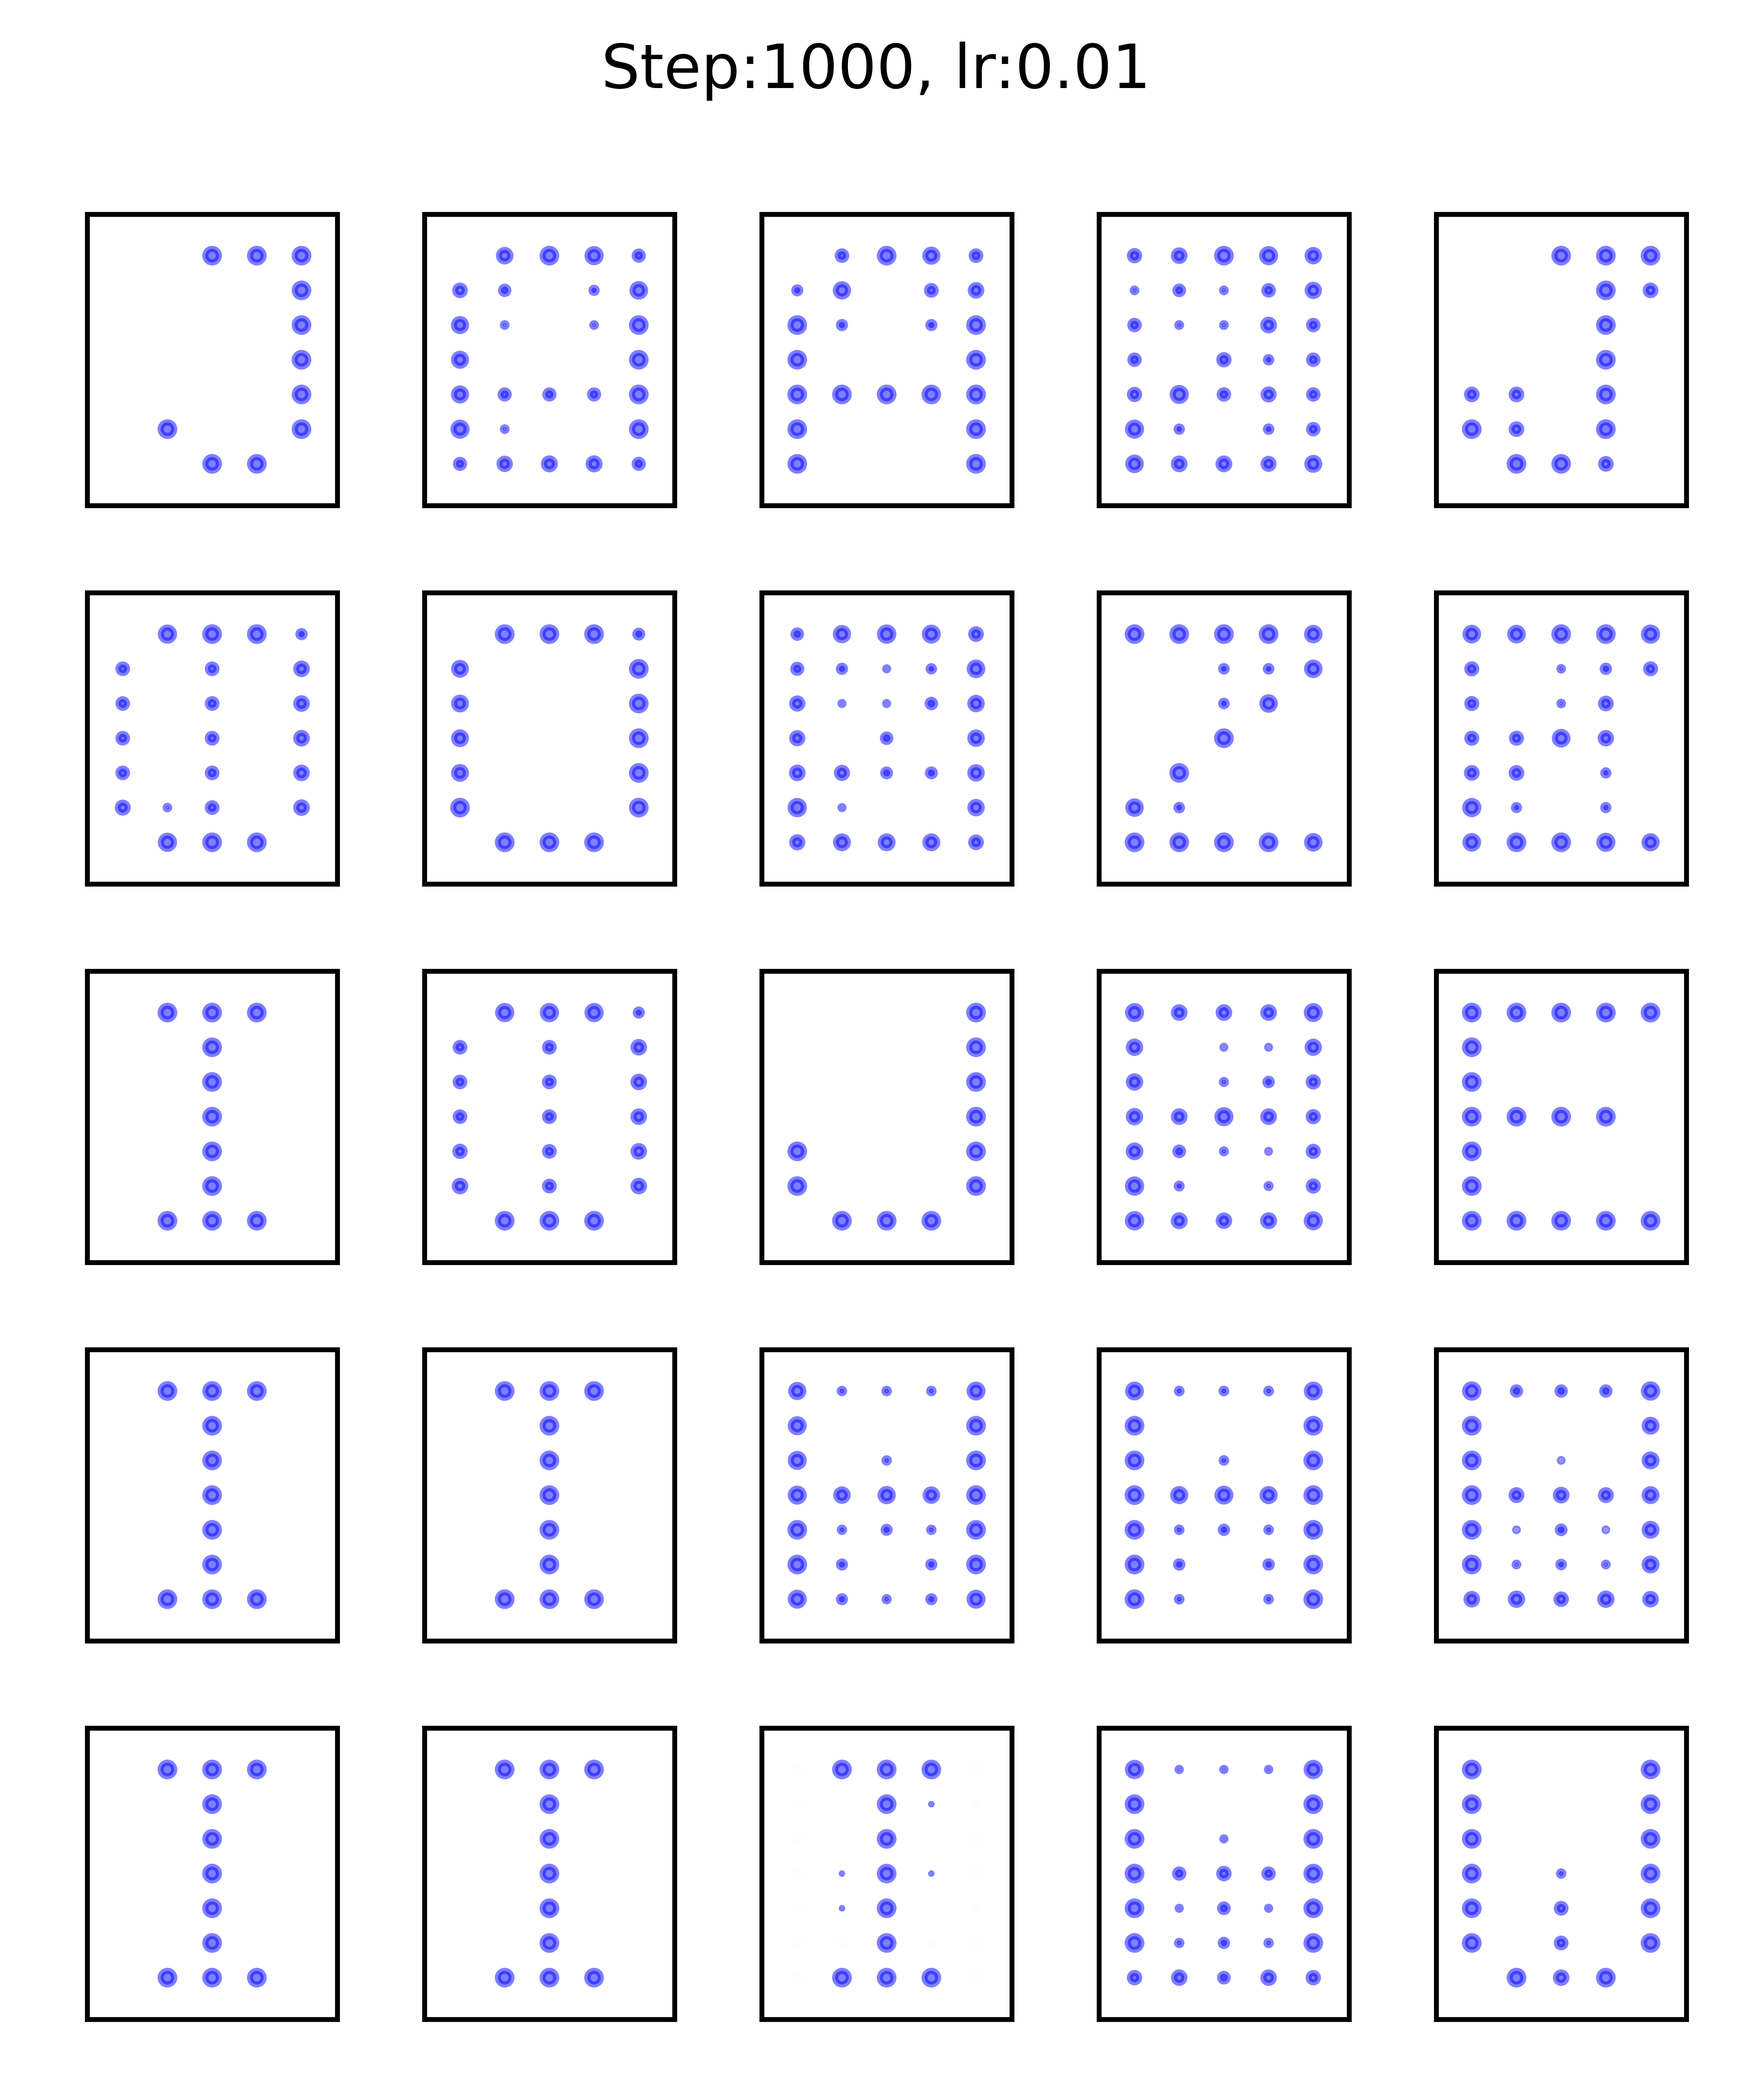
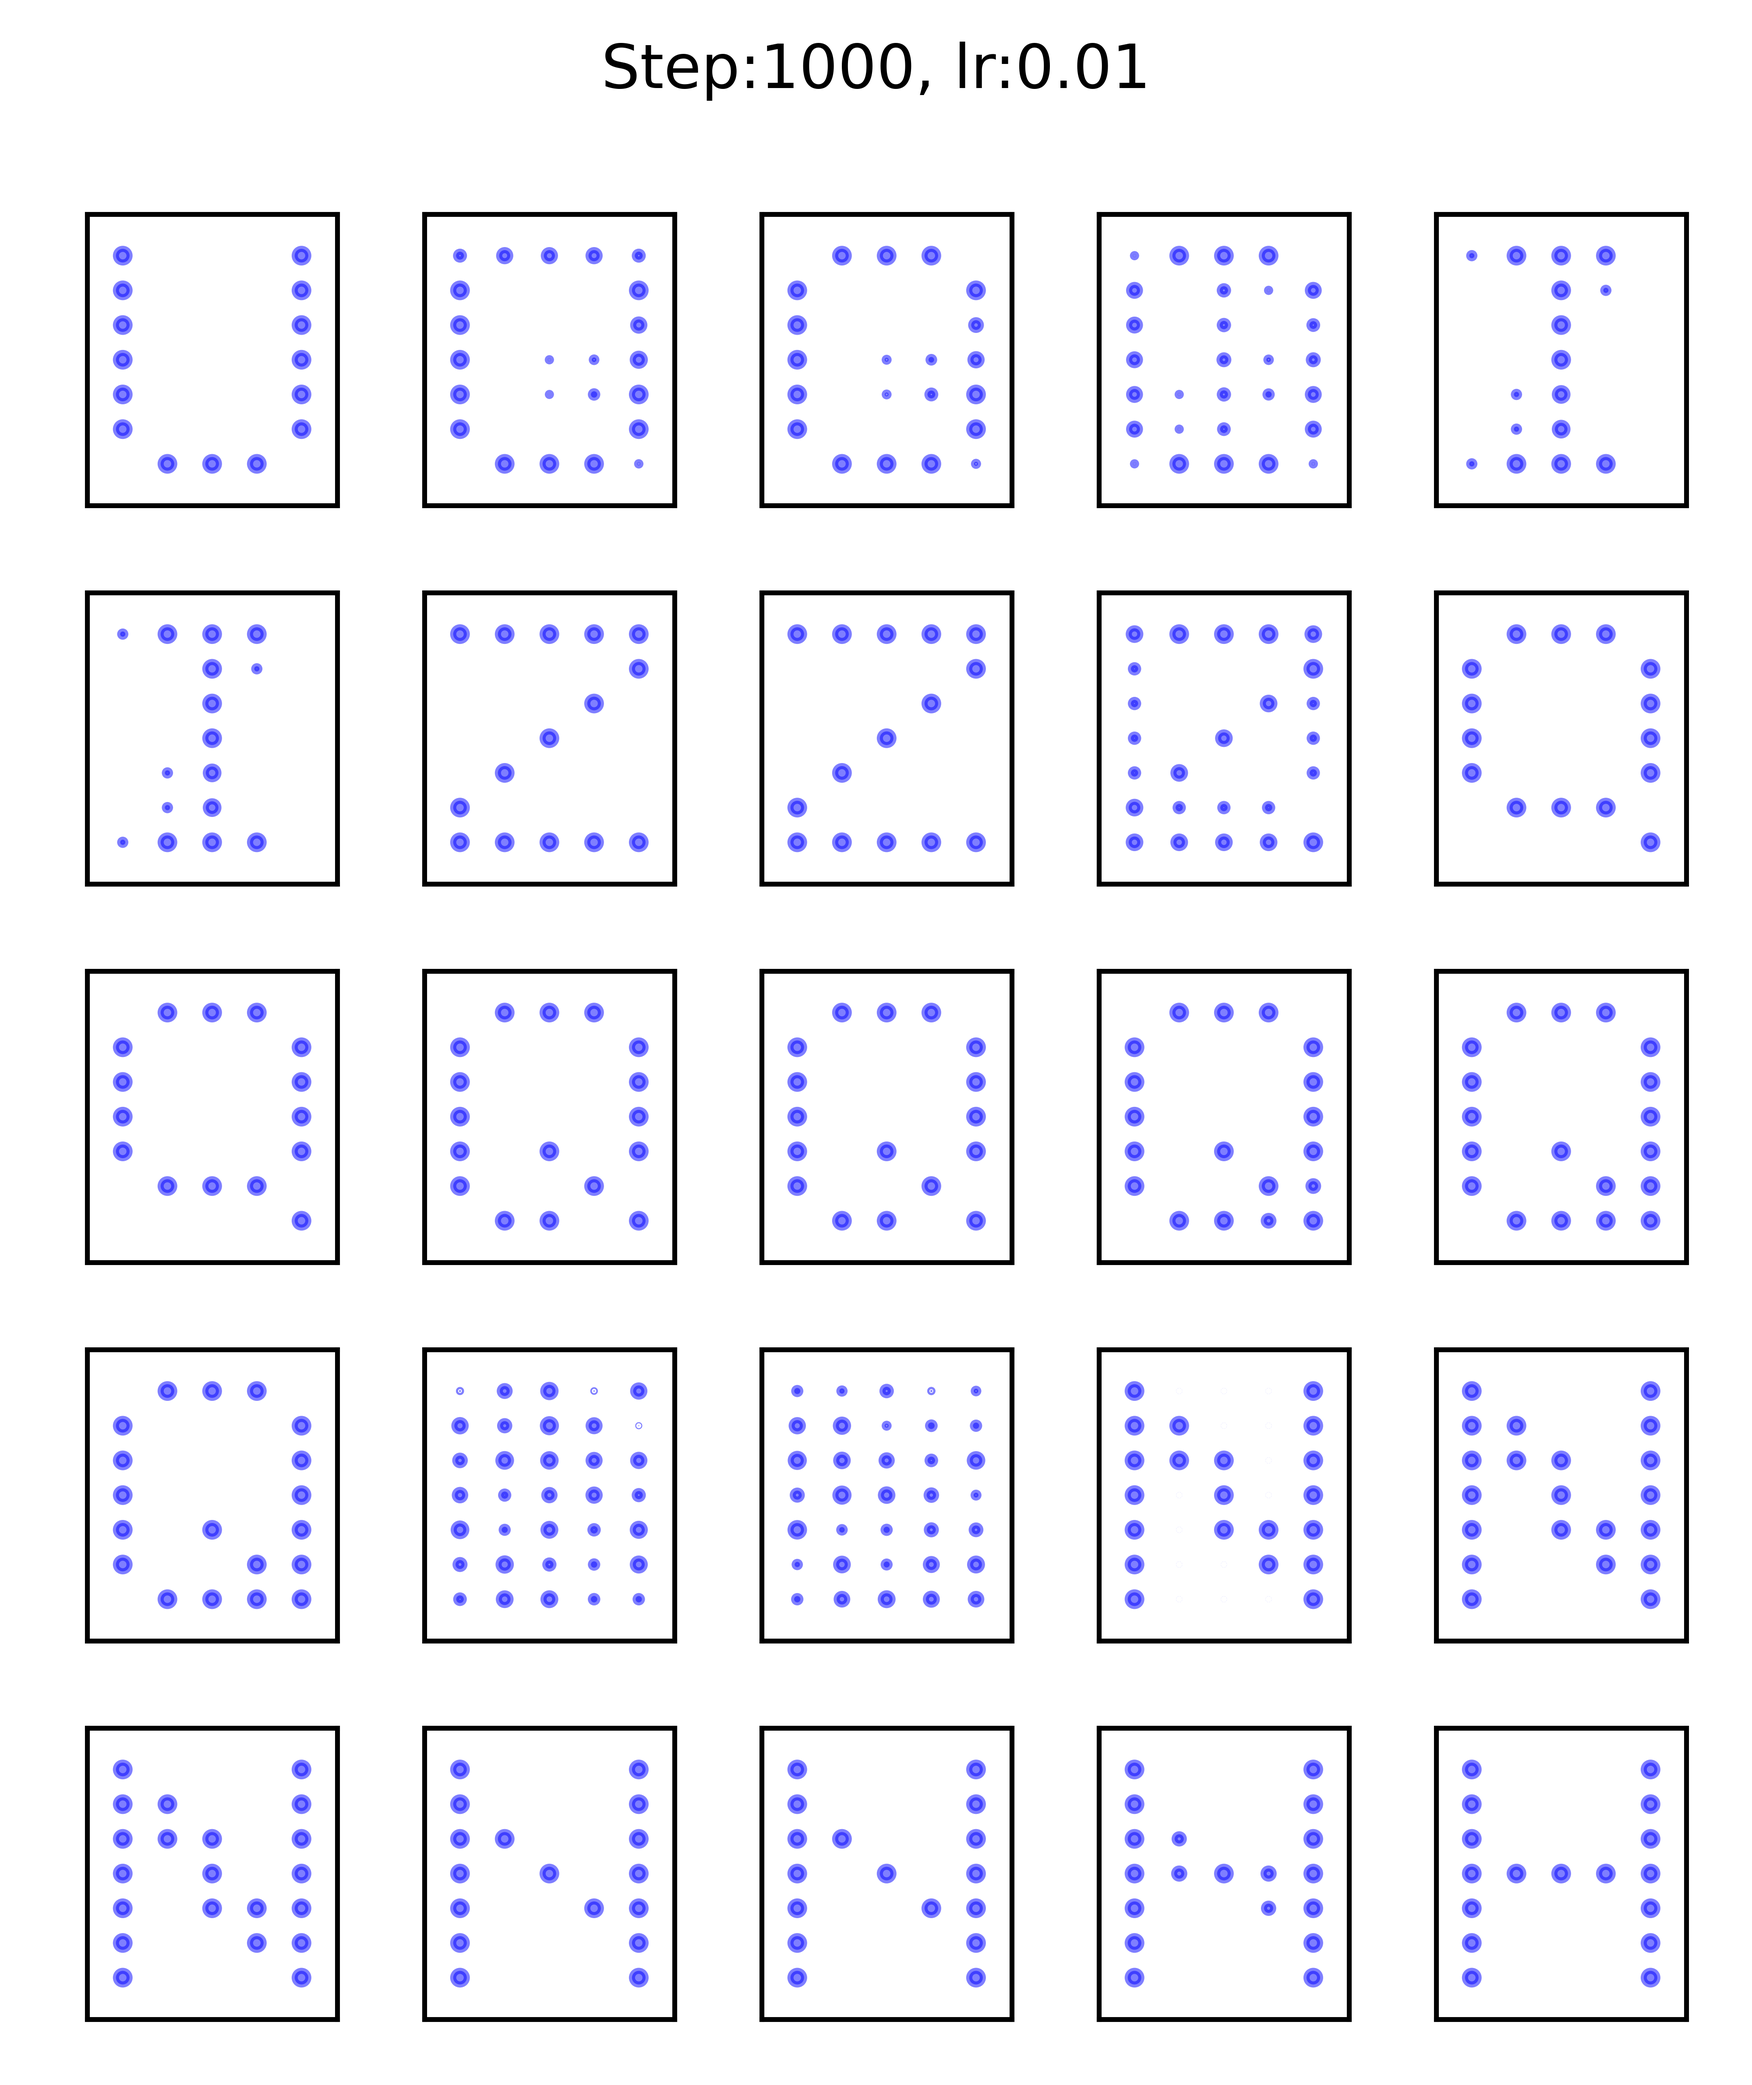
task3

diff --git a/ann-hw3/3-3.py b/ann-hw3/3-3.py
@@ -8,24 +8,6 @@ from numpy import nan
 
 
 # ======================================================
-# 数据生成：num个三角区域内的样本点
-def data_generateor(num=100):
-    X = np.random.random(5000)
-    Y = np.random.random(5000)
-    point_group = []
-
-    for x, y in zip(X, Y):
-        if y <= (3**0.5)*x and y <= 3**0.5-(3**0.5)*x and y >= 0:
-            point_group.append([x, y])
-
-    point_group = np.array(point_group).astype('float32')
-    id_list = np.random.randint(0, len(point_group)-1, num)
-    sample_data = point_group[id_list]
-
-    return sample_data
-
-
-# ======================================================
 # 胜者为王：输出层神经元竞争得到内积最大的id
 def WTA(x, W):
     innerdot = np.array([(x-ww).dot(x-ww) for ww in W])
@@ -39,6 +21,10 @@ def fu_neighbor(center_id, length, r):
     for i in range(center_id-r, center_id+r+1):
         if i >= 0 and i <= length-1:
             nb_list.append(i)
+        elif i < 0:
+            nb_list.append(i+length)
+        else:
+            nb_list.append(i-length)
 
     return nb_list
 
@@ -48,11 +34,14 @@ def fu_neighbor(center_id, length, r):
 def compete1(X, W, lr, r):
     for xx in X:
         id = WTA(xx, W)
-        
+
         nb_list = fu_neighbor(id, W.shape[0], r)
 
         for iid in nb_list:
             W[iid] = W[iid] + lr*(xx-W[iid])
+
+        for id in range(W.shape[0]):
+            W[id] = W[id] + (np.random.random(2) - 0.5) * lr**2
 
     return W
 
@@ -60,71 +49,73 @@ def compete1(X, W, lr, r):
 # ======================================================
 # 出图
 def show_data(data, lineflag=0, title=''):
-
     if lineflag == 0:
-        plt.scatter(data[:, 0], data[:, 1], s=10, c='blue')
+        plt.scatter(data[:, 0], data[:, 1], s=10, c='blue', label='View Site')
     else:
-        plt.scatter(data[:, 0], data[:, 1], s=35, c='red')
-        plt.plot(data[:, 0], data[:, 1], 'y-', linewidth=1)
-
-    board_x = np.linspace(0, 1, 200)
-    board_y = [np.sqrt(3)*(0.5-abs(x-0.5)) for x in board_x]
-    plt.plot(board_x, board_y, 'c--', linewidth=1)
-    plt.plot(board_x, np.zeros(len(board_x)), 'c--', linewidth=1)
+        plt.scatter(data[:, 0], data[:, 1], s=35,
+                    c='red', label='Neural Position', alpha=0.5)
+        plt.plot(data[:, 0], data[:, 1], 'y--', linewidth=1)
 
     plt.xlabel("x1")
     plt.ylabel("x2")
-    plt.axis([-0.05, 1.05, -0.05, .9])
+    plt.axis([-0.05, 1.05, -0.05, 1.05])
 
     if len(title) > 0:
         plt.title(title, fontsize=10)
 
     plt.grid(True)
     plt.tight_layout()
+    plt.legend(loc='upper right')
 
 
 # ======================================================
 def main():
 
-    np.random.seed(0)
+    np.random.seed(9)
 
     # -------------------------------------------------------------------
     # 生成数据
-    sample_num = 300
-    X_train = data_generateor(sample_num)
+    X_train = [[236, 53], [408, 79], [909, 89], [115, 264], [396, 335],
+              [185, 456], [699, 252], [963, 317], [922, 389], [649, 515]]
+
+
+    X_train = np.array([[xy[0]/1000, xy[1]/600] for xy in X_train])
+
 
     # -------------------------------------------------------------------
     # initialization
     num_epochs = 200
-    d = 100; 
-    lr_start = 0.3;  lr_end = 0.01
-    r_start = 10;    r_end = 0
+    d = 10
+    lr_start = 0.3;  lr_end = 0.02
+    r_start = 2;     r_end = 0
 
     W = np.random.rand(d, X_train.shape[1])
-    W[:,1] = W[:,1] * (3**0.5)/2
 
     # -------------------------------------------------------------------
     # 训练
     plt.rcParams['figure.figsize'] = (8, 6)
     plt.draw()
     plt.pause(0.2)
-    # show_data(X_train, 0)
+
     for epoch in range(num_epochs):
         lr = lr_start*(1-epoch/(num_epochs-1)) + lr_end*epoch/(num_epochs-1)
-        r = int(r_start*(1-(epoch/(num_epochs-1))) + r_end*epoch/(num_epochs-1))
+        r = int(r_start*(1-(epoch/(num_epochs-1))) +
+                r_end*epoch/(num_epochs-1))
 
         W = compete1(X_train, W, lr, r)
 
-        # plt.clf()
-        # show_data(X_train, 0)
-        # show_data(W, 1, "Step:%d/%d, r:%d, lr:%4.2f" %(epoch+1, num_epochs, r, lr))
-        # plt.draw()
-        # plt.pause(0.001)
+        
+        plt.clf()
+        show_data(X_train, 0)
+        show_data(W, 1, "Step:%d/%d, r:%d, lr:%4.2f" %
+              (epoch+1, num_epochs, r, lr))
+        plt.draw() 
+        plt.pause(0.001)
     
-
     show_data(X_train, 0)
-    show_data(W, 1, "Step:%d/%d, r:%d, lr:%4.2f" %(epoch+1, num_epochs, r, lr))
-    plt.savefig('homework/ann-hw3/picture/jieguo3.png', dpi=500)
+    show_data(W, 1, "Step:%d/%d, r:%d, lr:%4.2f" %
+              (epoch+1, num_epochs, r, lr))
+    plt.savefig('homework/ann-hw3/picture/jieguo3-3.png', dpi=500)
     plt.show()
 
 

diff --git a/ann-hw3/3-2.py b/ann-hw3/3-2.py
@@ -1,0 +1,137 @@
+import sys
+import os
+import time
+import matplotlib.pyplot as plt
+import numpy as np
+import copy
+from numpy import nan
+
+
+# ======================================================
+# 数据生成：(0, 1)x(0, 1)
+def data_generateor(num=100):
+    X = np.random.random(num)
+    Y = np.random.random(num)
+    sample_data = [[x,y] for x,y in zip(X,Y)]
+
+    return np.array(sample_data)
+
+
+# ======================================================
+# 胜者为王：输出层神经元竞争得到内积最大的id
+def WTA(x, W):
+    innerdot = np.array([(x-ww).dot(x-ww) for ww in W])
+    return np.where(innerdot == np.min(innerdot))[0][0]
+
+
+# ======================================================
+# 领域函数
+def fu_neighbor(center_id, length, r, d_shape):
+    row_c = center_id // d_shape[1]
+    col_c = center_id % d_shape[1]
+
+    nb_list = []
+    for i in range(length):
+        row = i // d_shape[1]
+        col = i % d_shape[1]
+        if np.abs(row-row_c) <= r and np.abs(col-col_c) <= r:
+            nb_list.append(i)
+
+    return nb_list
+
+
+# ======================================================
+# 竞争策略：2维拓扑结构
+def compete2(X, W, lr, r, d_shape):
+    for xx in X:
+        id = WTA(xx, W)
+
+        nb_list = fu_neighbor(id, W.shape[0], r, d_shape)
+
+        for iid in nb_list:
+            W[iid] = W[iid] + lr*(xx-W[iid])
+
+    return W
+
+
+# ======================================================
+# 出图
+def show_data(data, lineflag=0,  title='', d_shape=None):
+    dim = data.shape[1]
+    if lineflag == 0:
+        plt.scatter(data[:, 0], data[:, 1], s=10, c='blue')
+    else:
+        plt.scatter(data[:, 0], data[:, 1], s=35, c='red')
+
+        W_reshape = data.reshape(d_shape[0], d_shape[1], dim)
+        print(W_reshape.shape)
+        for ww in W_reshape:
+            plt.plot(ww[:,0], ww[:,1], color='red', linewidth=1, linestyle='--')
+
+        for ww in W_reshape.transpose((1,0,2)):
+            plt.plot(ww[:,0], ww[:,1], color='red', linewidth=1, linestyle='--')
+
+    plt.vlines(0, 0, 1, color='green', linewidth=1, linestyles='--')
+    plt.vlines(1, 0, 1, color='green', linewidth=1, linestyles='--')
+    plt.hlines(0, 0, 1, color='green', linewidth=1, linestyles='--')
+    plt.hlines(1, 0, 1, color='green', linewidth=1, linestyles='--')
+    plt.axis([-0.1, 1.1, -0.1, 1.2])
+    plt.xlabel("x1")
+    plt.ylabel("x2")
+
+    if len(title) > 0:
+        plt.title(title, fontsize=10)
+
+    plt.grid(True)
+    plt.tight_layout()
+
+
+# ======================================================
+def main():
+
+    np.random.seed(0)
+
+    # -------------------------------------------------------------------
+    # 生成数据
+    sample_num = 300
+    X_train = data_generateor(sample_num)
+
+    # -------------------------------------------------------------------
+    # initialization
+    num_epochs = 200
+    d_shape = [10, 10]
+    d = 100
+    lr_start = 0.1;  lr_end = 0.01
+    r_start = 3;     r_end = 0
+
+    W = np.random.rand(d, X_train.shape[1])
+
+    # -------------------------------------------------------------------
+    # 训练
+    plt.rcParams['figure.figsize'] = (8, 6)
+    plt.draw()
+    plt.pause(0.2)
+
+    for epoch in range(num_epochs):
+        lr = lr_start*(1-epoch/(num_epochs-1)) + lr_end*epoch/(num_epochs-1)
+        r = int(r_start*(1-(epoch/(num_epochs-1))) +
+                r_end*epoch/(num_epochs-1))
+
+        W = compete2(X_train, W, lr, r, d_shape)
+
+        # plt.clf()
+        # show_data(X_train, 0)
+        # show_data(W, 1, "Step:%d/%d, r:%d, lr:%4.2f" %
+        #       (epoch+1, num_epochs, r, lr), d_shape)
+        # plt.draw() 
+        # plt.pause(0.001)
+    
+    show_data(X_train, 0)
+    show_data(W, 1, "Step:%d/%d, r:%d, lr:%4.2f" %
+              (epoch+1, num_epochs, r, lr), d_shape)
+    plt.savefig('homework/ann-hw3/picture/jieguo3-2.png', dpi=500)
+    plt.show()
+
+
+if __name__ == '__main__':
+    main()

diff --git a/ann-hw3/test.py b/ann-hw3/test.py
@@ -5,38 +5,46 @@ import numpy as np
 import matplotlib.pyplot as plt
 from numpy import sin, cos, pi
 
-sample_angle = [-5, 5, 10, 75, 115, 210, 240, 300]
-sample_xy = np.array([[cos(a*pi/180), sin(a*pi/180)]
-                     for a in sample_angle]).astype('float32')
-
-W12_angle = [-45, 270, 30]
-W12 = np.array([[cos(b*pi/180), sin(b*pi/180)]
-               for b in W12_angle]).astype('float32')
-
-sxy = sample_xy
-# print(sxy)
-# np.random.shuffle(sxy)
-# print(sxy)
-
-# print(W12)
-# print(sxy[0].T)
-# a = W12 @ (sxy[0].reshape(-1,1))
-# b = W12 @ sxy[0]
-# print(a[0])
-# print(a[0][0])
-# print(b[0])
-
 ss = np.array([[1,2,5,0,2]])
 ee = np.array([[2,3,7,8,2]])
 # print(ss @ ee)
 # print(np.random.rand(3, 1))
 a = np.concatenate((ss,ee), axis=0)
-print(a)
+# print(a)
 # a = np.array([1,0,3]).reshape(-1,1)
-print([np.where(mark == np.max(mark))[0][0] for mark in a.T])
+# print([np.where(mark == np.max(mark))[0][0] for mark in a.T])
 cc = np.zeros(10)
 
+X = np.random.random(1000)
+Y = np.random.random(1000)
 
-plt.figure
-plt.savefig('homework/ann-hw3/picture/jieguo2.png', dpi=1000)
-plt.show()
+point_group = []
+
+for x, y in zip(X, Y):
+    if y <= (3**0.5)*x and y <= 3**0.5-(3**0.5)*x and y >= 0:
+        point_group.append([x, y])
+id_list = np.random.randint(0, len(point_group)-1, 100)
+point_group = np.array(point_group)
+sample_data = point_group[id_list]
+
+# plt.figure()
+# plt.scatter(sample_data[:,0], sample_data[:,1])
+# plt.margins(0.2)
+# plt.show()
+
+
+for i in range(2, 3):
+    print(i)
+print(np.random.random((100,100)))
+
+q = np.ones((8,2))
+q[1] = np.array([1,1])
+q[2] = np.array([5,7])
+q[5] = np.array([2,9])
+qq = q.reshape(2, 4, 2)
+print(qq)
+print('===================')
+print(qq.transpose(2,1,0))
+# print(np.stack((np.random.random((5,5)),
+#       np.random.random((5, 5)))).T)
+

diff --git a/ann-hw3/2-1.py b/ann-hw3/2-1.py
@@ -34,6 +34,8 @@ def data_loader(num_pattern, root_path):
 def WTA(x, W):
     innerdot = W @ x
     return np.where(innerdot == np.max(innerdot))[0][0]
+    # innerdot = np.array([(x-ww).dot(x-ww) for ww in W])
+    # return np.where(innerdot == np.min(innerdot))[0][0]
 
 # ======================================================
 # 竞争策略：无拓扑结构
@@ -149,7 +151,7 @@ def main():
     X_label = []        # 48
 
     for index, pattern in enumerate(label_data):
-        for letter in target_2:
+        for letter in target:
             id_ = np.where(CharStr == letter)[0][0]
             X_train.append(ascii_data[index][id_])
             X_label.append(pattern[id_])
@@ -174,7 +176,7 @@ def main():
     for epoch in range(num_epochs):
         lr = learning_rate*(1-epoch/(num_epochs-1)) + 0.01*epoch/(num_epochs-1)
 
-        W = compete2(X_train, W, lr)
+        W = compete1(X_train, W, lr)
         # Wplot(W, 'Step:%d, lr:%4.2f' % (epoch+1, lr))
 
     Wplot(W, 'Step:%d, lr:%4.2f' % (epoch+1, lr))
